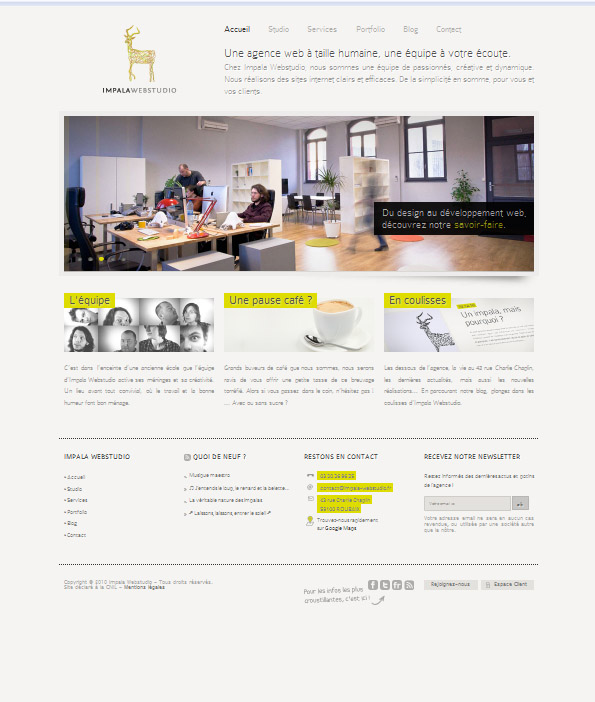
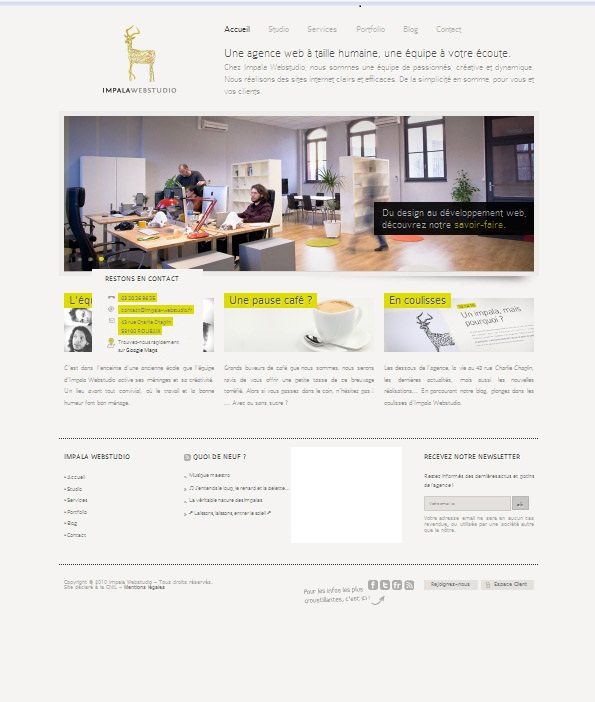
add some image & edit code

diff --git a/index.html b/index.html
@@ -1,366 +1,12 @@
 <!DOCTYPE html PUBLIC "-//W3C//DTD XHTML 1.0 Transitional//EN" "http://www.w3.org/TR/xhtml1/DTD/xhtml1-transitional.dtd">
 <html xmlns="http://www.w3.org/1999/xhtml">
 <head>
-<link rel="stylesheet" href="../layout/css/reset.css" type="text/css" />
+<link rel="stylesheet" href="css/reset.css" type="text/css" />
+<link rel="stylesheet" href="css/css2.css" type="text/css" />
 <meta http-equiv="Content-Type" content="text/html; charset=utf-8" />
 <title>Création de sites Internet sur Lille - Spécialiste Wordpress et Prestashop - Impala Webstudio</title>
 <link rel="icon" type="image/png" href="http://www.impala-webstudio.fr/favicon.png" />
-<style >
-* {
-	padding:0;
-	margin:0;
-}
-body {
-	background-color:#f5f4f2;
-}
-div {
-	outline:0px dashed black;
-}
-div.container {
-	width:1024px;
-	margin:0 auto;
-	background-color:#F5F4F2;
-}
-div.clear {
-	width:0;
-	height:0;
-	clear:both;
-}
-/*..........................header..........*/
-div.header {
-	width:auto;
-	height:200px;
-	background-color:#f5f4f2;
-	padding-left:30px;
-}
-div.leftheader {
-	width:300px;
-	float:left;
-	height:inherit;
-}
-div.rightheader {
-	width:auto;
-	margin-left:300px;
-	height:inherit;
-}
-/*--------------menu-----*/
-div.menu {
-	width:auto;
-	height:80px;
-	background-color:#F5F4F2;
-}
-div.menu ul {
-	width:500px;
-	list-style-type:none;
-	margin-left:20px;
-}
-div.menu li {
-	float:left;
-	position:relative;
-	margin-top:20px;
-}
-div.menu a {
-	padding:15px 10px;
-	display:block;
-	font-family:Tahoma, Geneva, sans-serif;
-	font-size:18px;
-	text-decoration:none;
-	color:#B2B1AF;
-	text-transform:capitalize;
-}
-div.menu li:hover {
-	background-color:f5f4f2;
-}
- div.menu li:hvover a {
- color:#3c3c3c;
-}
-div.menu li:active a {
-	color:#3C3C3C;
-}
-/*--------------menu-----*/
-div.text {
-	background-color:#F5F4F2;
-	height:120px;
-}
-h2 {
-	font-family: candara, tahoma;
-	font-size:18px;
-	font-style:normal;
-	text-shadow:#999;
-	font-weight:bolder;
-	text-transform:capitalize;
-	line-height:10px;
-	color:#999;
-}
-p {
-	font-family: candara, tahoma;
-	font-size:18px;
-	color:#999;
-}
-/*.....................banner..*/
 
-div.banner {
-	width:auto;
-	height:350px;
-}
-/*.....................content1..*/
-	
-/*------------------left--------*/
-div.content {
-	width:auto;
-	height:314px;
-}
-img.abc {
-	opacity:1.0;
-	filter:alpha(opacity=40); /* For IE8 and earlier */
-}
-img.abc:hover {
-	opacity:0.6;
-	filter:alpha(opacity=100); /* For IE8 and earlier */
-}
-div.left {
-	float:left;
-	width:300px;
-	height:inherit;
-	padding-left:30px;
-	padding-right:20px;
-}
-.imageleft {
-	position:relative;
-	left:0;
-	top:0;
-	z-index:0;
-	width:300px;
-	height:133px;
-	margin:0 auto;
-}
-.textc {
-	font-family: candara, tahoma;
-	font-size:15px;
-	color:#999;
-	line-height:15px;
-}
-img.op {
-	position:absolute;
-	z-index:-1;
-}
-h4 {
-	background-color:#CC0;
-	font-family:consolas, candara, tahoma;
-	font-size:22px;
-	text-transform:capitalize;
-	width:180px;
-	height:30px;
-	text-align:center;
-	text-decoration:none;
-	color:#000;	
-}
-h4 a:hover{
-	text-decoration:none;}
-/*-----------------right--------*/
-
-div.right {
-	float:right;
-	width:300px;
-	height:inherit;
-	padding-left:0;
-	padding-right:30px;
- background-color:;
-}
-.imageright {
-	width:300px;
-	height:133px;
-}
-/*------------------center------------------*/
-div.center {
-	width:auto;
-	height:inherit;
-	margin:0 350px;
-}
-.imagecenter {
-	width:auto;
-	height:133px;
-}
-.dot {
-	width:auto;
-	height:20px;
-	font-size:24px;
-	color:#333;
-}
-/*.....................content1..*/
-div.content2 {
-	width:auto;
-	height:253px;
-}
-div.left1 {
-	width:250px;
-	height:inherit;
-	float:left;
-}
-h3 {
-	color:#333;
-	font-family:Tahoma, Geneva, sans-serif;
-	width:150px;
-	padding:15px 0px;
-	text-transform:uppercase;
-	white-space:nowrap;
-	font-size:14px;
-}
-div.leftmenu {
-}
-div.leftmenu ul {
-	width:220px;
-}
-div.leftmenu li {
-	list-style-type:none;
-	list-style-position:inside;
-}
-div.leftmenu a {
-	padding:15px 10px;
-	text-decoration:none;
-	color:#666;
-	font-family: candara, tahoma;
-	font-size:12px;
-	text-transform:capitalize;
-	text-align:justify;
- text-wrap:
- line-height:10px;
-}
-div.leftmenu a:hover {
-	color:#000;
-}
-/*---------------------------*/
-div.left1 {
-	width:190px;
-	height:inherit;
-	float:left;
-	padding:0 30px;
-}
-div.left2 {
-	width:260px;
-	height:inherit;
-	float:left;
-	padding:0 5px;
-	color:#666;
-}
-.title {
-	text-decoration:none;
-}
-a.title :hover {
-	color:#CCCCCC;
-}
-div.right2 {
-	width:200px;
-	height:inherit;
-	float:left;
-	padding:0 10px;
-}
-#tell {
-	list-style-image:url(images/images/tell.jpg);
-	list-style-position:inside;
-	background-color:#DBDF05;
-	line-height:0px;
-	width:120px;
-}
-#emaila {
-	background-color:#DBDF05;
-	line-height:15px;
-}
-.info1 {
-	font-family: candara, tahoma;
-	font-size:12px;
-	font-size:12px;
-	text-transform:capitalize;
-	text-align:justify;
-	line-height:10px;
-	color:#666;
-}
-.info {
-	color:#999999;
-	font-family:Tahoma, Geneva, sans-serif;
-	font-size:10px;
-	text-outline:none;
-}
-div.right1 {
-	width:250px;
-	height:inherit;
-	float:right;
-	margin-left:auto;
-}
-#email {
-	width:150px;
-	height:30px;
-	background-color:#E2E1DD;
-	color:#FFFFFF;
-	padding-right:0;
-}
-#mail {
-	list-style-image:url(images/images/mail.jpg);
-	background-color:#DBDF05;
-	width:150px;
-	height:40px;
-}
-#map {
-	list-style-image:url(images/images/back5_09.gif);
-}
-#ok {
-	width:40px;
-	height:40px;
-	background-color:#C7C6C4;
-	color:#747372;
-	padding-left:0;
-}
-input:hover {
-	background-color:#CCC;
-}
-/*.....................content2..*/
-div.footer {
-	width:auto;
-	height:150px
-}
-div.footerleft {
-	width:300px;
-	height:inherit;
-	float:left;
-	color:#999999;
-	font-size:12px;
-	padding-left:30px;
-}
-#copy a {
-	color:#999999;
-}
-div.facebook {
-	padding-right:30px;
-}
-div.facebook ul {
-	float:right;
-}
-div.facebook li {
-	float:right;
-	position:relative;
-	top:0px;
-}
-div.footerright {
-	width:auto;
-	height:inherit;
-	float:right;
-	padding-right:30px;
-}
-.buttons {
-	background-color:#E2E1DD;
-	width:120px;
-	height:30px;
-	color:#666;
-	font-family: candara, tahoma;
-	font-size:12px
-}
-div.footercenter {
-	width:auto;
-	height:inherit;
-	margin:0 250px;
-	padding-right:30px;
-}
-</style>
 </head>
 
 <body>
@@ -386,7 +32,7 @@ div.footercenter {
       </div>
     </div>
   </div>
-  <div class="banner"> <a href="#"><img src="../layout/images/images/back5_03.gif" width="1024" height="343" alt="banner" /></a></div>
+  <div class="banner"> <a href="#"><img src="images/images/back5_03.gif" width="1024" height="343" alt="banner" /></a></div>
   <div class="content">
     <div class="left">
       <div class="imageleft">
@@ -450,8 +96,9 @@ div.footercenter {
       <br />
       <div class="leftmenu">
         <ul class="info">
-          <li id="tell" >&nbsp;03 20 26 96 25 </li>
-        <li id="emaila"> @&nbsp;&nbsp;contact@impala-webstudio.fr</li>
+          <li id="tell" >&nbsp;<span>03 20 26 96 25</span> </li>
+          
+        <li id="emaila"> &nbsp;&nbsp;contact@impala-webstudio.fr</li>
           <li id="mail">&nbsp;&nbsp;43 rue Charlie Chaplin<br />
             &nbsp;&nbsp;&nbsp;&nbsp;&nbsp;59100 ROUBAIX</li>
           <li id="map">&nbsp;&nbsp;Trouvez-nous rapidement<br />
